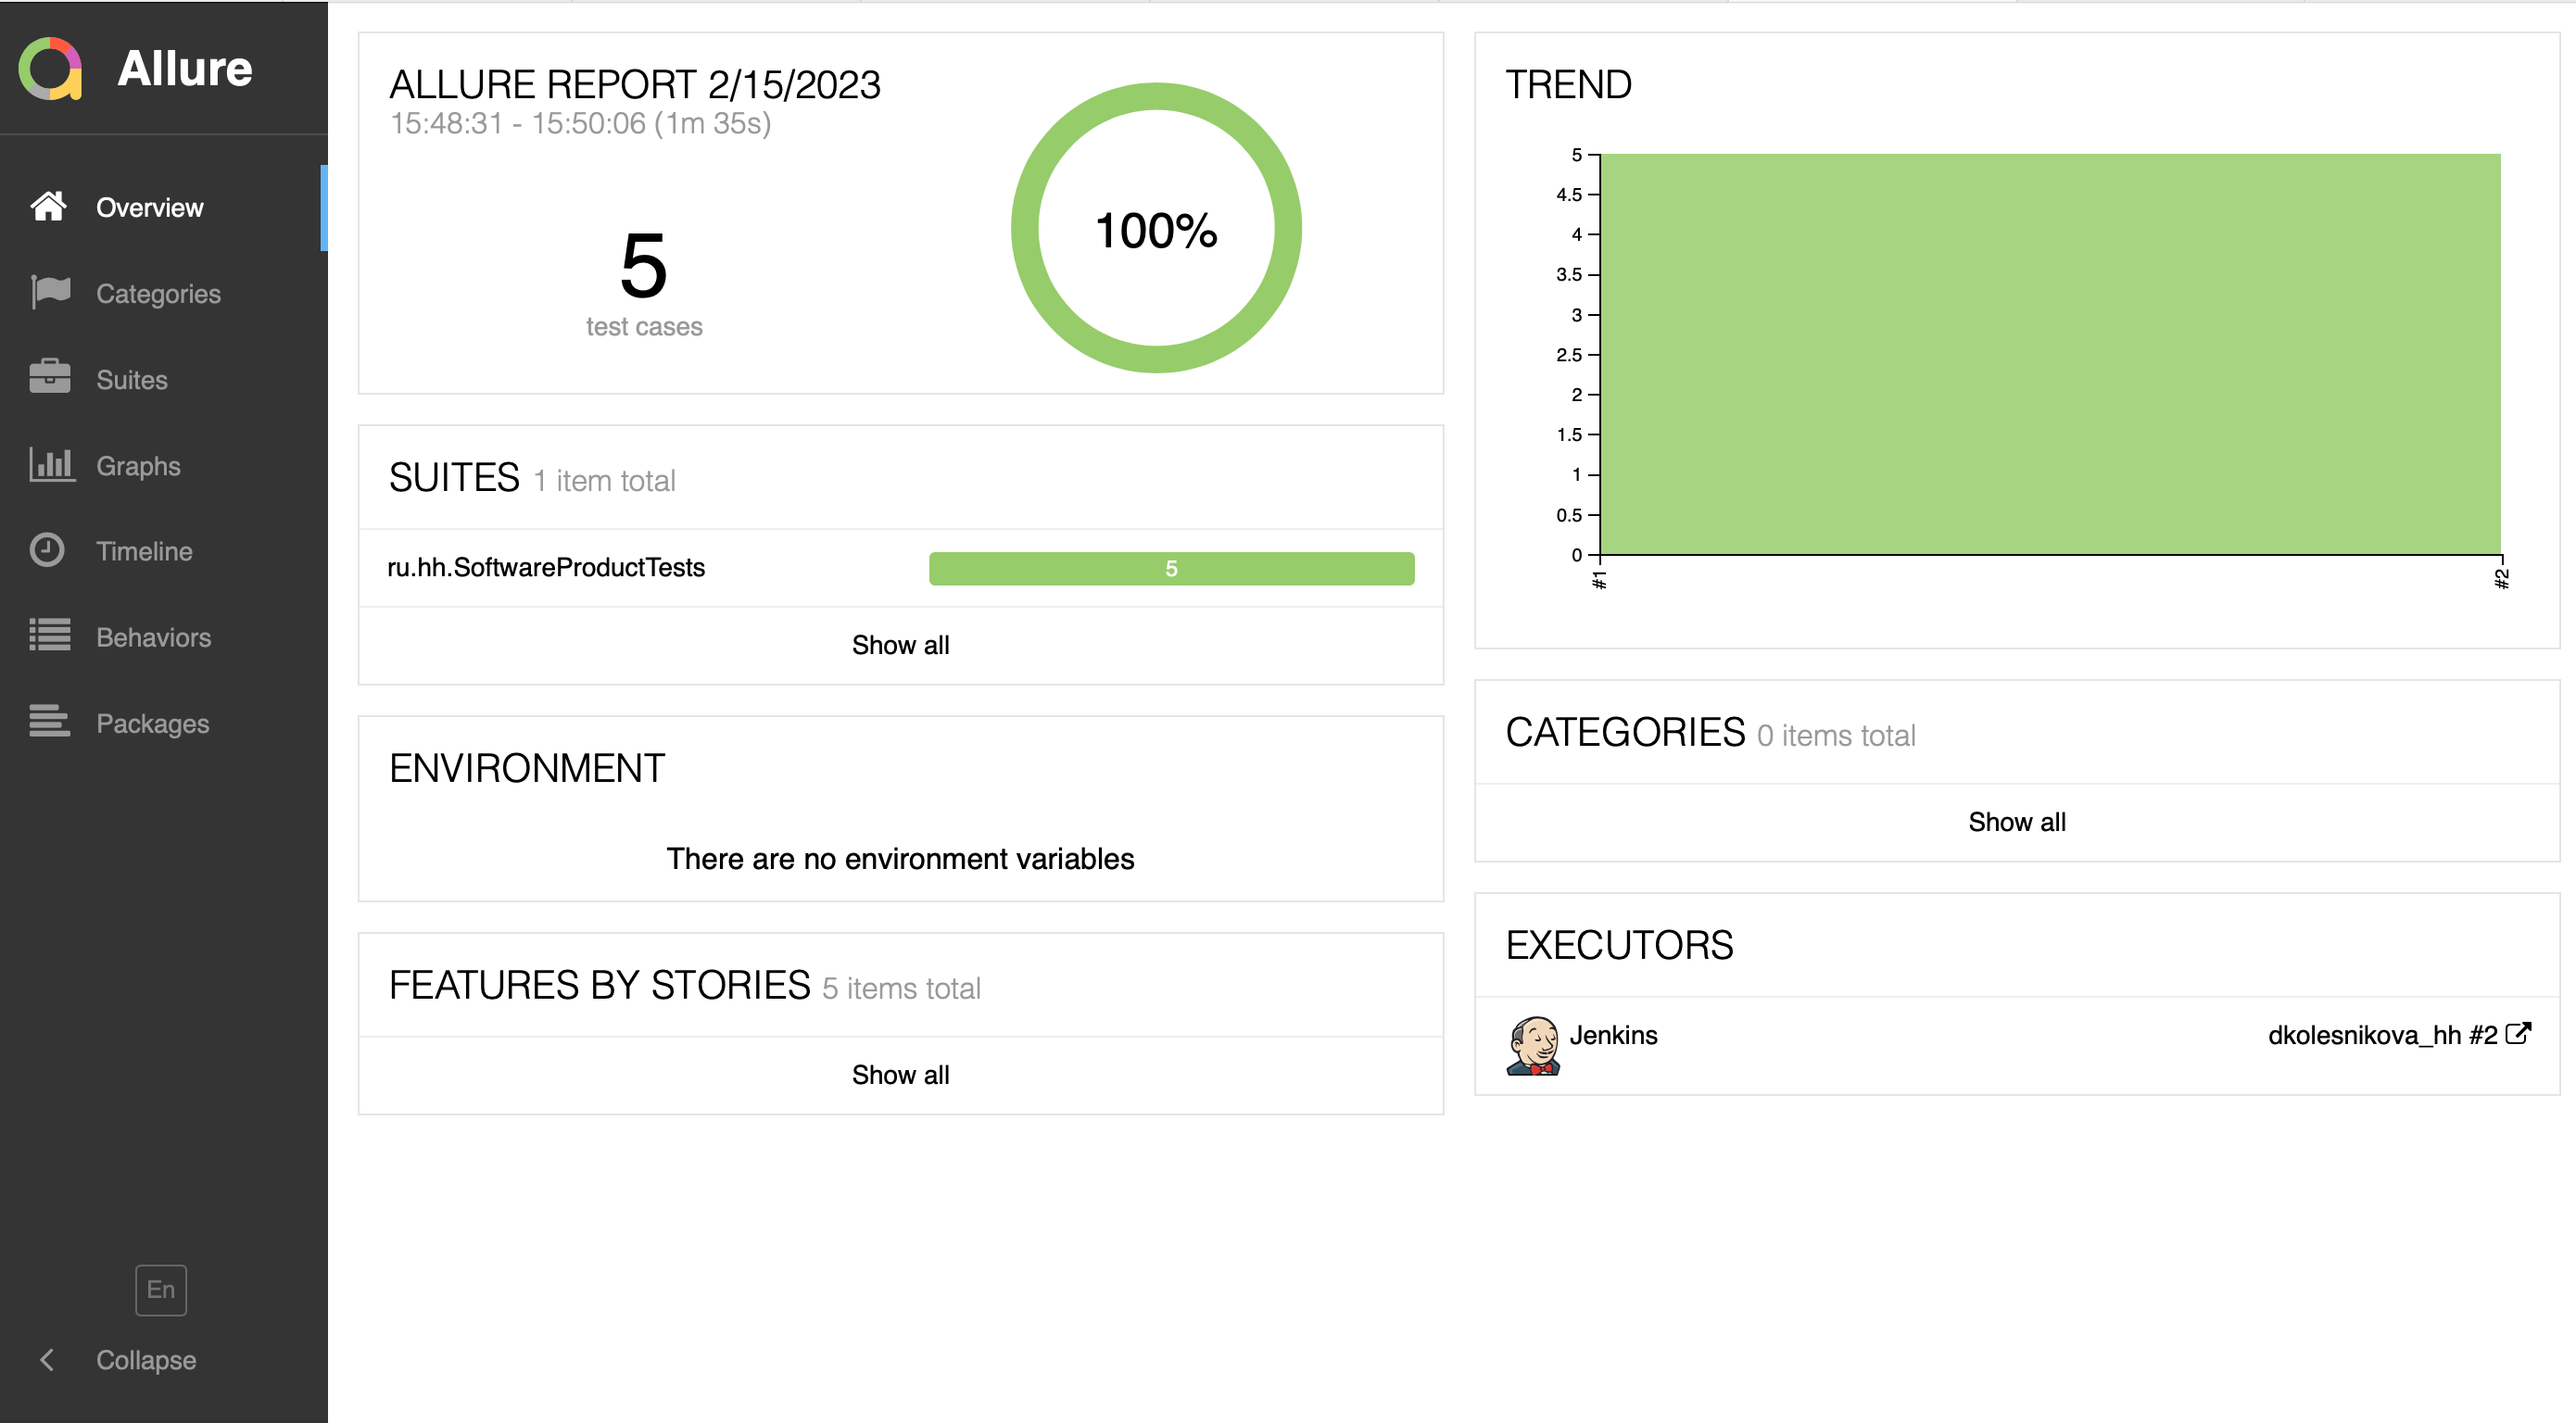
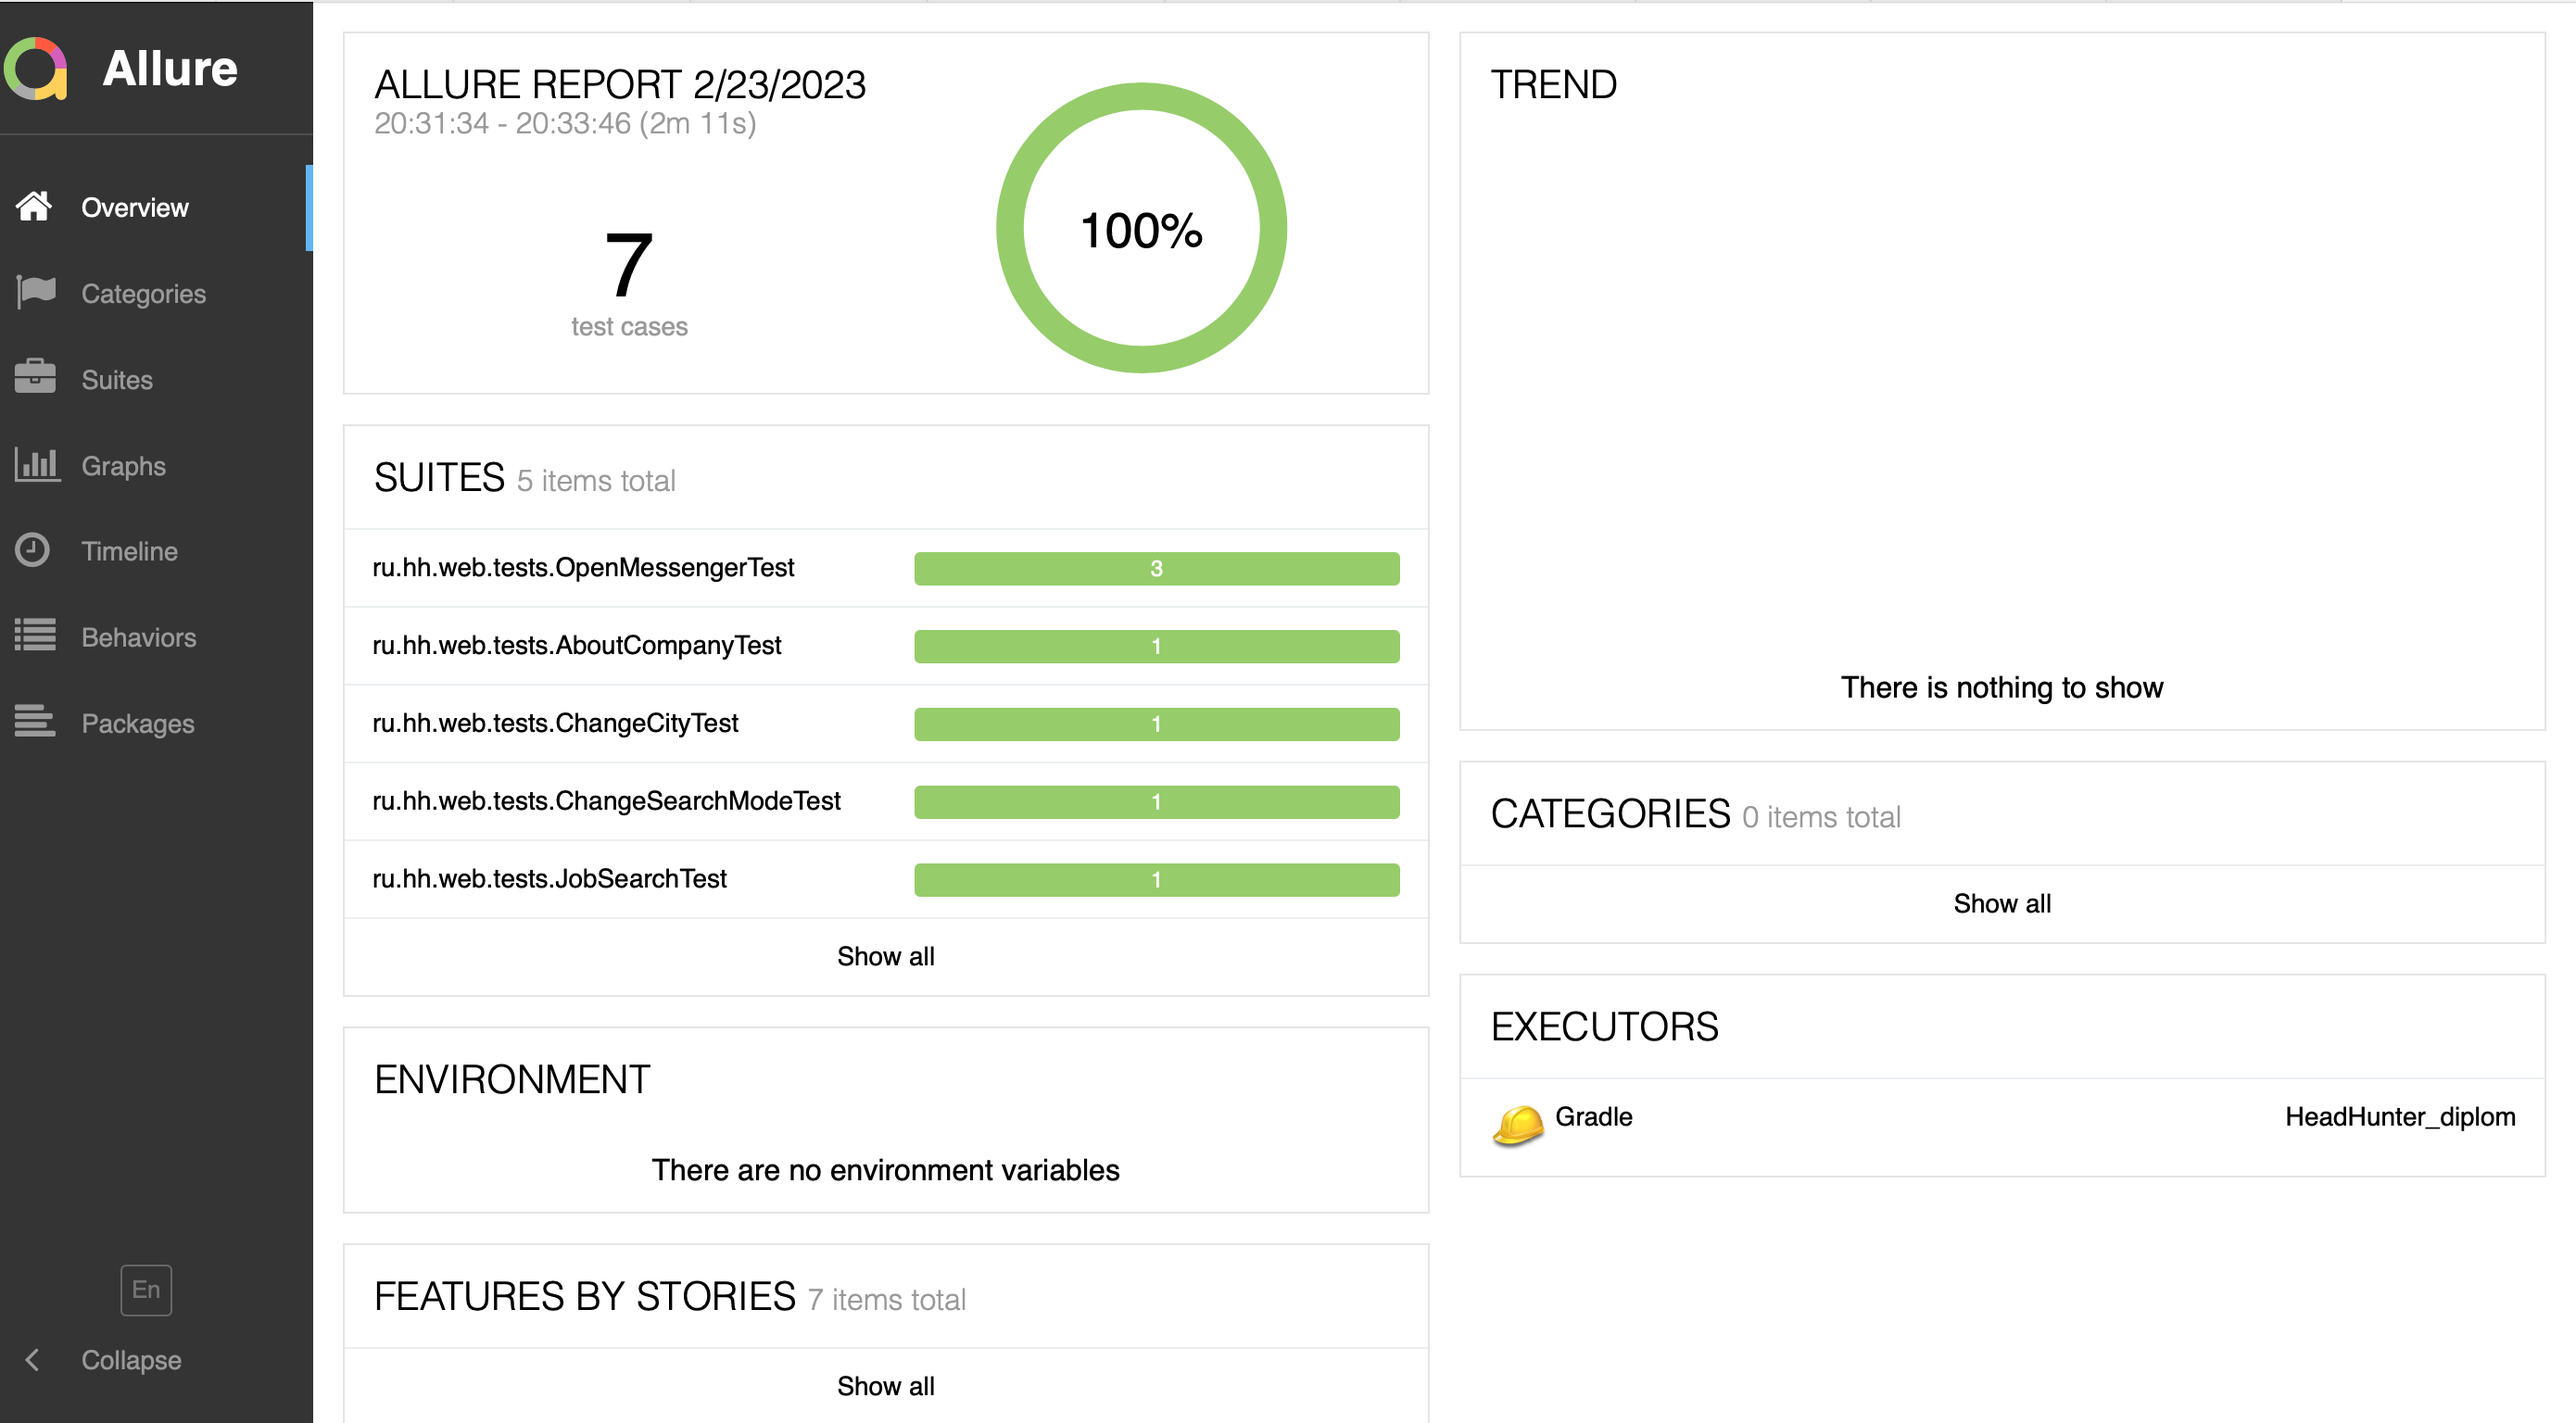
add new tests

diff --git a/src/test/java/ru/hh/web/tests/OpenMessengerTest.java b/src/test/java/ru/hh/web/tests/OpenMessengerTest.java
@@ -1,10 +1,12 @@
 package ru.hh.web.tests;
 
 import org.junit.jupiter.api.DisplayName;
+import org.junit.jupiter.api.Tag;
 import org.junit.jupiter.api.Test;
 import ru.hh.web.pages.MainPage;
 import ru.hh.web.pages.OpenMessengerPage;
 
+@Tag("UI")
 public class OpenMessengerTest extends TestBase{
     MainPage mainPage = new MainPage();
     OpenMessengerPage openMessengerPage = new OpenMessengerPage();
@@ -22,5 +24,12 @@ public class OpenMessengerTest extends TestBase{
         mainPage.openPage()
                 .clickDzenIcon();
         openMessengerPage.checkDzenIconResult();
+    }
+    @Test
+    @DisplayName("Проверка открытия страницы Телеграм")
+    void checkOpeningTelegramTests () {
+        mainPage.openPage()
+                .clickTelegramIcon();
+        openMessengerPage.checkTelegramIconResult();
     }
 }

diff --git a/src/test/java/ru/hh/web/pages/MainPage.java b/src/test/java/ru/hh/web/pages/MainPage.java
@@ -10,6 +10,7 @@ public class MainPage {
             aboutCompanyLink = $x("//*[@href=\"/article/28?from=footer_new\"]"),
             vkIcon = $(".bloko-social-icon_vk"),
             dzenIcon  = $(".bloko-social-icon_dzen"),
+            telegramIcon = $(".bloko-social-icon_telegram"),
             searchField = $(".bloko-input-text"),
             stateButton = $(".supernova-navi-item_area-switcher-button"),
             employersButton = $(".supernova-link_dimmed");
@@ -35,6 +36,12 @@ public class MainPage {
     public MainPage clickDzenIcon () {
         step("Click on Dzen icon", () -> {
             dzenIcon.click();
+        });
+        return this;
+    }
+    public MainPage clickTelegramIcon () {
+        step("Click on Telegram icon", () -> {
+            telegramIcon.click();
         });
         return this;
     }

diff --git a/src/test/java/ru/hh/web/tests/ChangeSearchModeTest.java b/src/test/java/ru/hh/web/tests/ChangeSearchModeTest.java
@@ -1,6 +1,7 @@
 package ru.hh.web.tests;
 
 import org.junit.jupiter.api.DisplayName;
+import org.junit.jupiter.api.Tag;
 import org.junit.jupiter.api.Test;
 import ru.hh.web.pages.ChangeSearchModePage;
 import ru.hh.web.pages.MainPage;
@@ -10,6 +11,7 @@ public class ChangeSearchModeTest extends TestBase {
     ChangeSearchModePage changeSearchModePage = new ChangeSearchModePage();
 
     String textChangePageTitle = "Разместить вакансию";
+    @Tag("UI")
     @Test
     @DisplayName("Проверка изменения страницы соискателям на страницу для работодателей")
     void checkChangePageTest() {

diff --git a/src/test/java/ru/hh/web/tests/ChangeCityTest.java b/src/test/java/ru/hh/web/tests/ChangeCityTest.java
@@ -1,6 +1,7 @@
 package ru.hh.web.tests;
 
 import org.junit.jupiter.api.DisplayName;
+import org.junit.jupiter.api.Tag;
 import org.junit.jupiter.api.Test;
 import ru.hh.web.pages.ChangeCityPage;
 import ru.hh.web.pages.MainPage;
@@ -9,6 +10,7 @@ public class ChangeCityTest extends TestBase{
     MainPage mainPage = new MainPage();
     ChangeCityPage changeCityPage = new ChangeCityPage();
 
+    @Tag("UI")
     @Test
     @DisplayName("Изменение города")
     void checkChangeCityTest (){

diff --git a/src/test/java/ru/hh/web/tests/AboutCompanyTest.java b/src/test/java/ru/hh/web/tests/AboutCompanyTest.java
@@ -1,6 +1,7 @@
 package ru.hh.web.tests;
 
 import org.junit.jupiter.api.DisplayName;
+import org.junit.jupiter.api.Tag;
 import org.junit.jupiter.api.Test;
 import ru.hh.web.pages.AboutCompanyPage;
 import ru.hh.web.pages.MainPage;
@@ -11,6 +12,7 @@ public class AboutCompanyTest extends TestBase {
 
     String textAboutCompanyTitle = "О КОМПАНИИ";
 
+    @Tag("UI")
     @Test
     @DisplayName("Проверка раздела 'О компании'")
     void checkAboutCompanyTest () {

diff --git a/src/test/java/ru/hh/web/tests/JobSearchTest.java b/src/test/java/ru/hh/web/tests/JobSearchTest.java
@@ -1,10 +1,12 @@
 package ru.hh.web.tests;
 
 import org.junit.jupiter.api.DisplayName;
+import org.junit.jupiter.api.Tag;
 import org.junit.jupiter.api.Test;
 import ru.hh.web.pages.JobSearchPage;
 import ru.hh.web.pages.MainPage;
 
+@Tag("UI")
 public class JobSearchTest extends TestBase {
     MainPage mainPage = new MainPage();
     JobSearchPage jobSearchPage = new JobSearchPage();

diff --git a/src/test/java/ru/hh/web/pages/OpenMessengerPage.java b/src/test/java/ru/hh/web/pages/OpenMessengerPage.java
@@ -20,4 +20,11 @@ public class OpenMessengerPage {
         });
         return this;
     }
+    public OpenMessengerPage checkTelegramIconResult () {
+        step("Switch to new page and check URL", () -> {
+            switchTo().window(1);
+            webdriver().shouldHave(url("https://t.me/hh_ru_official"));
+        });
+        return this;
+    }
 }

diff --git a/src/test/java/ru/hh/web/tests/TestBase.java b/src/test/java/ru/hh/web/tests/TestBase.java
@@ -7,6 +7,7 @@ import io.qameta.allure.selenide.AllureSelenide;
 import org.junit.jupiter.api.AfterEach;
 import org.junit.jupiter.api.BeforeAll;
 import org.junit.jupiter.api.BeforeEach;
+import ru.hh.web.pages.ChangeCityPage;
 
 
 import static com.codeborne.selenide.Configuration.baseUrl;
